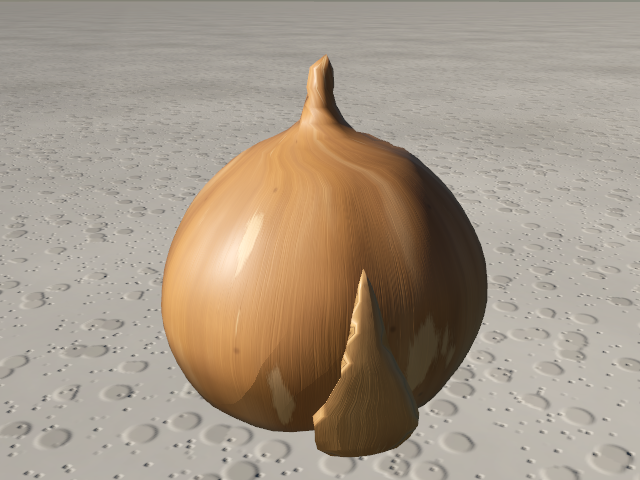
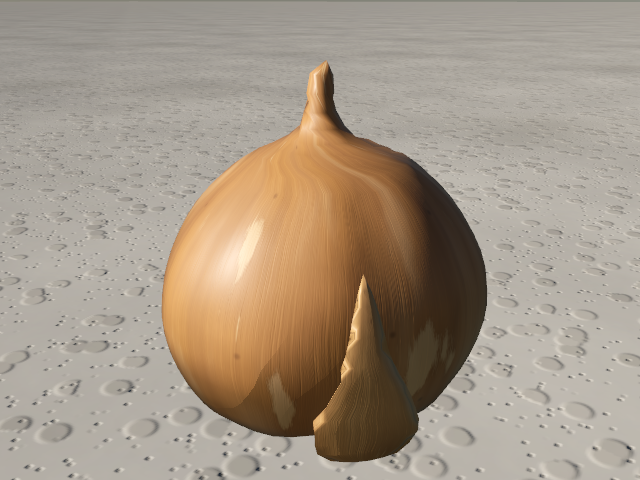
Food: carrot (cortex shell + core solid, stem stubs); onion grounded analytically

diff --git a/Sources/RealLibrary/Props/Food/Carrot.swift b/Sources/RealLibrary/Props/Food/Carrot.swift
@@ -1,0 +1,101 @@
+import simd
+import Foundation
+
+/// Fresh carrot lying along +X: crown at +X with trimmed green stem stubs, tapering to a thin curved
+/// tail at -X. Two tissues as nested closed shells with matching boundaries: the orange cortex is a
+/// thick-walled shell (skin outside, core-shaped hole inside; cut face `food.carrot-cortex`) and the
+/// pale core is a solid filling that hole (cut face `food.carrot-core`), so a cross cut shows the core
+/// disc inside the cortex ring without overlapping caps. Lenticel rings and root-hair scars are in
+/// `food.carrot`; shallow constrictions and a slightly lobed section are in the geometry.
+public struct Carrot: RealFood {
+    public static let id = "carrot"
+    public static let summary = "Fresh carrot, 18 cm: tapered orange root with lenticel rings and root-hair scars, trimmed green crown, core and cortex shells."
+    public static let tags = ["prop", "food", "kitchen", "handheld"]
+    public static let budget = 6000
+    public static let author = "realityhd"
+    public static let kind = FoodKind.root
+    public static let preview = PreviewHint(azimuth: 20, elevation: 25, distance: 0.38, studio: true)
+
+    /// Root length without the stem stubs (m).
+    public var length: Float = 0.184
+    /// Widest diameter near the crown (m).
+    public var diameter: Float = 0.032
+    /// Core radius as a fraction of the local radius.
+    public var coreFraction: Float = 0.42
+    /// Stem stub count and length (m).
+    public var stems = 8
+    public var stemLength: Float = 0.007
+    /// Material keys.
+    public var skin: MaterialKey = "food.carrot"
+    public var cortex: MaterialKey = "food.carrot-cortex"
+    public var core: MaterialKey = "food.carrot-core"
+    public var stem: MaterialKey = "food.stem-green"
+    public init() {}
+
+    /// On the root axis in the thick half (the axis stays straight and level there).
+    public var coreCenter: V3 { V3(length * 0.25, axisHeight, 0) }
+    /// Height of the root axis above the ground (lobes reach about 3 % past the nominal radius).
+    var axisHeight: Float { diameter / 2 * 1.03 }
+
+    public func capMaterial(for key: MaterialKey) -> MaterialKey? {
+        if key == skin { return cortex }
+        if key == core { return core }
+        return nil
+    }
+
+    public func build(seed: UInt64) -> LODModel {
+        var rng = SeededRNG(seed: seed)
+        let L = length, R = diameter / 2
+        // Radius along the root, y = 0 tail tip ... L crown.
+        let shape: [V2] = [V2(0, 0), V2(R * 0.08, L * 0.02), V2(R * 0.2, L * 0.08), V2(R * 0.4, L * 0.22), V2(R * 0.6, L * 0.4),
+                           V2(R * 0.77, L * 0.58), V2(R * 0.9, L * 0.75), V2(R * 0.98, L * 0.88), V2(R, L * 0.94),
+                           V2(R * 0.93, L * 0.975), V2(R * 0.7, L * 0.995), V2(R * 0.35, L * 1.0), V2(0, L * 1.0)]
+        let outerCurve = FoodMesh.profile(shape)
+        var outer = FoodMesh.revolve(edge: 0.0031, seamTile: 0.05, material: skin, curve: outerCurve)
+        let coreShape = shape.dropFirst().dropLast().map { V2($0.x * coreFraction, $0.y) }.filter { $0.y > L * 0.03 && $0.y < L * 0.985 }
+        let coreCurve = FoodMesh.profile([V2(0, L * 0.025)] + coreShape + [V2(0, L * 0.985)])
+        let coreS = FoodMesh.revolve(edge: 0.004, seamTile: 0.03, material: core, curve: coreCurve)
+        // Constriction rings and a slightly lobed section on the skin only (the core stays well inside).
+        let rings = (0..<12).map { _ in (rng.float(0.05...0.92) * L, rng.float(0.015...0.04), rng.float(0.001...0.0025)) }
+        let ph = (0..<3).map { _ in rng.float(0...6.28) }
+        outer.deform { p in
+            let a = atan2(p.z, p.x)
+            var k: Float = 1 + 0.018 * sin(a * 2 + ph[0] + p.y * 20) + 0.01 * sin(a * 3 + ph[1])
+            for (y, depth, w) in rings { k -= depth * exp(-pow((p.y - y) / w, 2)) }
+            return V3(p.x * k, p.y, p.z * k)
+        }
+        var cortexS = outer
+        cortexS.append(coreS.flipped().with(material: skin))
+        var m = Model(name: Self.id)
+        // Lay along X (tail at x = 0, crown at x = L), then bend the tail down toward the ground.
+        let bend = rng.float(0.6...1.0), sway = rng.float(-0.4...0.4)
+        let lay: (V3) -> V3 = { p in
+            let t = max(0, 1 - p.x / (L * 0.55))       // 0 over the thick half, 1 at the tail tip
+            return V3(p.x, p.y - R * 0.55 * bend * t * t, p.z + R * 0.5 * sway * t * t)
+        }
+        var a = FoodMesh.layAlongX(cortexS), b = FoodMesh.layAlongX(coreS)
+        a.deform(lay); b.deform(lay)
+        // Trimmed stem stubs out of the crown, cut flat.
+        var stemS = Surface(material: stem)
+        for i in 0..<stems {
+            var r = rng.fork(i)
+            let ang = Float(i) / Float(stems) * 2 * .pi + r.float(-0.3...0.3)
+            let rr = i == 0 ? 0 : r.float(0.0015...0.0055)
+            let base = V3(L - 0.003, cos(ang) * rr, sin(ang) * rr)
+            let dir = simd_normalize(V3(1, cos(ang) * rr * 45, sin(ang) * rr * 45))
+            let len = stemLength * r.float(0.6...1.3)
+            let rad = r.float(0.0011...0.0017)
+            let pts = (0...3).map { base + dir * (len * Float($0) / 3) }
+            stemS.append(FoodMesh.tube(pts, radii: [rad * 1.15, rad, rad, rad * 0.95], sides: 7, endBulge: 0.05, material: stem))
+        }
+        m.add(a); m.add(b); m.add(stemS)
+        m = m.transformed(Xform(translation: V3(-L / 2, axisHeight, 0)))
+        groundAO(&m, height: 0.012, floor: 0.6)
+        return LODModel(m)
+    }
+}
+
+extension Surface {
+    /// Same geometry under another material key.
+    func with(material: MaterialKey) -> Surface { var s = self; s.material = material; return s }
+}

diff --git a/Sources/RealMaterials/Shaders/FoodShaders.swift b/Sources/RealMaterials/Shaders/FoodShaders.swift
@@ -149,20 +149,23 @@ S rootSkin(float2 uv, constant RFParams &P) {
     float h = 0.5, rough = P.f.z, ao = 1.0;
     if (int(P.f.w + 0.5) == 0) {
         float grain = gnoise(float2(uv.x * 60.0, uv.y * 3.0), int2(60, 3), sd + 3u);
-        c *= 0.97 + 0.06 * grain;
+        c *= 0.95 + 0.1 * grain;
+        float band = fbm(uv, int2(9, 1), 3, sd + 11u);
+        c *= 0.93 + 0.14 * smoothstep(-0.3, 0.3, band);
+        c = mix(c, c * float3(1.0, 0.86, 0.75), smoothstep(0.1, 0.4, macro) * 0.5);
         // Lenticels: short pale-edged transverse dashes in loose rows along the root.
         float cid = 0.0, cid2 = 0.0;
         float2 off = cellLocal(uv, int2(max(4, F / 3), F), sd + 4u, cid, cid2);
         float2 q = off * float2(1.0, 3.2);
         q.y += q.x * q.x * (cid2 - 0.5) * 1.2;
         float L = 0.35 + 0.4 * cid;
-        float dash = (1.0 - smoothstep(L * 0.6, L, abs(q.x))) * (1.0 - smoothstep(0.08, 0.2, abs(q.y)));
+        float dash = (1.0 - smoothstep(L * 0.4, L, abs(q.x))) * (1.0 - smoothstep(0.04, 0.28, abs(q.y)));
         dash *= step(0.25, cid2);
-        float lip = (1.0 - smoothstep(L * 0.7, L * 1.1, abs(q.x))) * (smoothstep(0.12, 0.2, abs(q.y)) - smoothstep(0.2, 0.32, abs(q.y))) * step(0.25, cid2);
-        c = mix(c, P.colorB.rgb, dash * 0.3 * P.colorC.a);
-        c = mix(c, P.colorC.rgb, lip * 0.5 * P.colorC.a);
-        h += -dash * 0.3 + lip * 0.12 + grain * 0.03;
-        ao -= dash * 0.35;
+        float lip = (1.0 - smoothstep(L * 0.5, L * 1.1, abs(q.x))) * (smoothstep(0.1, 0.25, abs(q.y)) - smoothstep(0.25, 0.45, abs(q.y))) * step(0.25, cid2);
+        c = mix(c, P.colorB.rgb, dash * 0.22 * P.colorC.a);
+        c = mix(c, P.colorC.rgb, lip * 0.3 * P.colorC.a);
+        h += -dash * 0.16 + lip * 0.08 + grain * 0.03;
+        ao -= dash * 0.2;
         // Root-hair scars: tiny dark pits, mostly sitting on lenticel rows.
         float4 w = worley(uv, int2(F, F * 2), sd + 5u, 1.0);
         float scar = (1.0 - smoothstep(0.03, 0.08, w.x)) * step(0.7, w.z);

diff --git a/Sources/RealLibrary/Props/Food/YellowOnion.swift b/Sources/RealLibrary/Props/Food/YellowOnion.swift
@@ -32,7 +32,9 @@ public struct YellowOnion: RealFood {
     public var flapKey: MaterialKey = "food.onion-skin:C99A62"
     public init() {}
 
-    public var coreCenter: V3 { V3(0, bulbHeight * 0.48, 0) }
+    public var coreCenter: V3 { V3(0, bulbHeight * 0.48 - Self.plate, 0) }
+    /// Lowest point of the skin (root plate rim) before grounding.
+    static let plate: Float = 0.0014
 
     public func capMaterial(for key: MaterialKey) -> MaterialKey? { key == flesh ? rings : nil }
 
@@ -116,13 +118,14 @@ public struct YellowOnion: RealFood {
             let pts = (0...4).map { k -> V3 in
                 let t = Float(k) / 4
                 let side = simd_cross(out, .up) * curl * 0.003 * t * t
-                return base + out * (len * t) + V3(0, -droop * 0.005 * t * t - 0.001 * t, 0) + side
+                var q = base + out * (len * t) + V3(0, -droop * 0.005 * t * t - 0.001 * t, 0) + side
+                q.y = max(q.y, Self.plate + 0.0007)
+                return q
             }
             let rad = r.float(0.0004...0.00065)
             m.add(FoodMesh.tube(pts, radii: pts.indices.map { rad * (1 - 0.5 * Float($0) / 4) }, sides: 5, endBulge: 0.3, material: root))
         }
-        let bb = m.bounds
-        m = m.transformed(Xform(translation: V3(-(bb.min.x + bb.max.x) / 2, -bb.min.y, -(bb.min.z + bb.max.z) / 2)))
+        m = m.transformed(Xform(translation: V3(0, -Self.plate, 0)))
         groundAO(&m, height: 0.02, floor: 0.55)
         return LODModel(m)
     }

diff --git a/Sources/RealLibrary/Props/Props.swift b/Sources/RealLibrary/Props/Props.swift
@@ -109,6 +109,7 @@ public enum Props {
         Glucometer.self,
         ChickenBreast.self,
         YellowOnion.self,
+        Carrot.self,
         // realityhd:prop
     ]
 }
